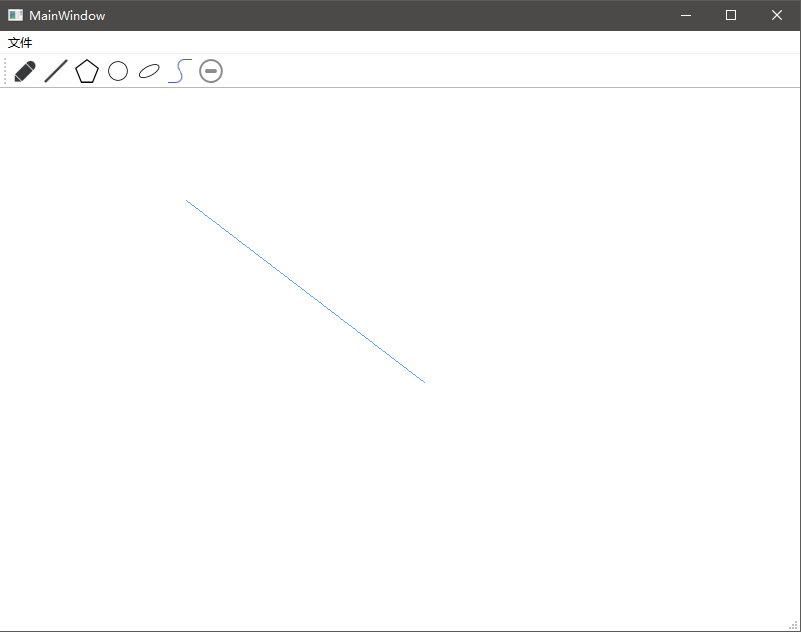
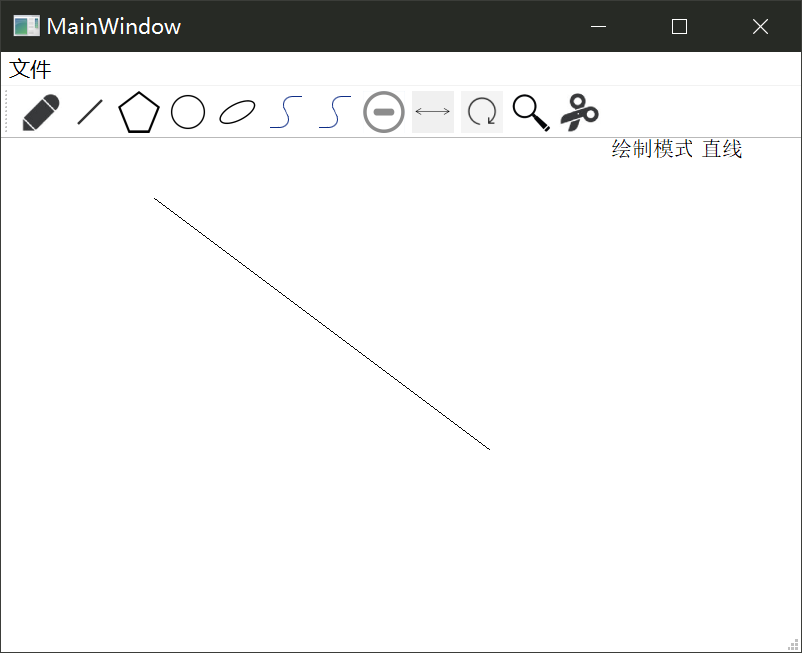
feat:12.31系统使用说明书

diff --git a/polygon.cpp b/polygon.cpp
@@ -48,6 +48,10 @@ void Polygon::PrintMyself()
 
 void Polygon::DrawUseDDA(QPainter &pp)
 {
+    for(size_t i=0;i<Vertex.size();i++){
+        qDebug()<<Vertex[i]<<endl;
+    }
+
     for(size_t i=1;i<Vertex.size();i++){
         Line::DrawUseDDA(pp,Vertex[i-1],Vertex[i]);
     }

diff --git a/README.md b/README.md
@@ -15,14 +15,24 @@
 - 工具栏：工具栏包括各种图元图标，点击可选择模式，还包括选择画笔颜色，清空画布等功能按钮
   - 选择画笔颜色：点击按钮后，弹出颜色选择框，选择好颜色后，即可继续绘制![SelectColor](/Pictures/SelectColor.png)
   - 清空画布：点击工具栏中的清空图标，即可清空画布
+  - 保存图片：点击菜单栏中的文件选项，选择保存，可自动弹出路径选择框，选择后路径填写文件名后即可保存图片![保存图片](/Pictures/SaveFile.png)
 
 - 绘图模式：
   - 线段：鼠标点击画布开始绘制，松开画布绘制完成，线段以点击处为起点，以释放处为终点![DrawLine](/Pictures/DrawLine.png)
   - 多边形：鼠标点击或拖动绘制顶点和边，当鼠标按下右键，自动补全最后一条边，多边形完成绘制![DrawPolygon](/Pictures/DrawPolygon.png)
   - 圆形：鼠标点击画布开始绘制，松开画布绘制完成，圆形以点击处为圆心，以释放处和点击处的距离为半径![DrawCircle](/Pictures/DrawCircle.png)
   - 椭圆：鼠标点击点作为椭圆所在外接矩形某一顶点，拖动绘制椭圆，鼠标时放点作为所在外接矩形与起始点对应的对角顶点。![DrawEllipse](/Pictures/DrawEllipse.png)
-  - 曲线：鼠标点击点作为各控制点位置，可以点击任意数量的控制点，按下鼠标右键时，曲线根据之前点击的控制点，进行绘制。![DrawCurve](/Pictures/DrawCurve.png)
+  - 贝塞尔曲线：鼠标点击点作为各控制点位置，可以点击任意数量的控制点，按下鼠标右键时，曲线根据之前点击的控制点，进行绘制。![DrawCurve](/Pictures/DrawBezierCurve.png)
+  - B样条曲线：鼠标点击点作为各控制点位置，可以点击任意数量的控制点，按下鼠标右键时，曲线根据之前点击的控制点，进行绘制。由于此次实现的是三次均匀B样条曲线，至少需要四个控制点，当控制点个数不足时会自动放弃此次绘制![DrawCurve](/Pictures/DrawBSplineCurve.png)
+- 编辑模式：
+  - 平移：画好图元后，点击菜单栏中的平移按钮即可进入平移模式。点击画布中任意位置按住鼠标，即可对图元进行平移![Translate](/Pictures/Move1.png)![Translate](/Pictures/Move2.png)
+  - 旋转：画好图元后，点击菜单栏中的平移按钮即可进入旋转模式。旋转首先要确定图元的旋转中心，需要鼠标点击画布中任意位置确定旋转中心。旋转中心确定后，可以用鼠标滚轮实现顺时针/逆时针旋转![Rotate](/Pictures/Rotate1.png)![Rotate](/Pictures/Rotate2.png)
+  - 缩放：画好图元后，点击菜单栏中的平移按钮即可进入缩放模式。缩放同样需要确定图元的缩放中心，需要鼠标点击画布中任意位置确定缩放中心。缩放中心确定后，可以用鼠标滚轮实现放大/缩小功能![Scale](/Pictures/Scale1.png)![Scale](/Pictures/Scale2.png)
+  - 剪裁：画好图元后，点击菜单栏中的平移按钮即可进入剪裁模式。图元的剪裁只对直线有效，进入剪裁模式后，用鼠标点击画布上任意两点，确定剪裁窗口的左上角和右下角。剪裁完毕后自动切换回绘制模式
+- 图元编辑注意事项：![Cut](/Pictures/Cut1.png)![Cut](/Pictures/Cut2.png)
+  - 以上图元变换功能均可组合使用，即：进行平移变换后可切换到旋转模式，继续对该图元进行操作。若想结束该次变换，可以点击鼠标右键表示此次变换已完成。或者点击菜单栏中图元绘制相关按钮，同样可以切换回绘制模式。
+  - 以上图元变换功能均只能对刚刚画好的图元进行变换，无法对N个图元之前的某个图元进行操作。
   
 - 命令行模式：
   - 命令行模式可以通过接受两个参数：指令序列文件和保存图片目录，来进行图元绘制![Cmd](/Pictures/Cmd.png)
-  - 命令行模式目前已实现各图元的绘制以及各图元的平移功能。GUI目前尚未对应图元平移功能。
+  - 命令行模式目前已完全实现各图元的绘制以及各图元的各种变换指令，同时实现更改画笔颜色，重置画布，保存画布等指令。
